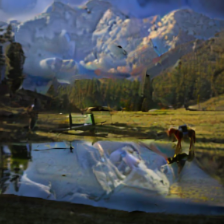
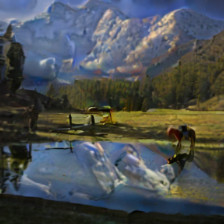
Exp: Obtain the most sensitive vector and region-wise noise injection

diff --git a/freqmark_localization.py b/freqmark_localization.py
@@ -16,6 +16,7 @@ import torchvision
 import random
 from tqdm import tqdm
 warnings.filterwarnings('ignore')
+from segment_anything import sam_predictor, SamPredictor, sam_model_registry
 
 class Params:
     """Hyperparameters and configuration settings for FreqMark."""
@@ -73,11 +74,12 @@ class Params:
 class FreqMark:
     def __init__(self, args):
         self.args = args
+        sam = sam_model_registry["<model_type>"](checkpoint="<path/to/checkpoint>")
 
         # Initialize networks
         self.vae = AutoencoderKL.from_pretrained("stabilityai/stable-diffusion-2-1", subfolder="vae").to(self.args.device)
         self.image_encoder = torch.hub.load('facebookresearch/dinov2', 'dinov2_vits14').to(self.args.device)
-
+        self.sam = SamPredictor(sam)
         # Freeze all networks
         for param in self.vae.parameters():
             param.requires_grad = False
